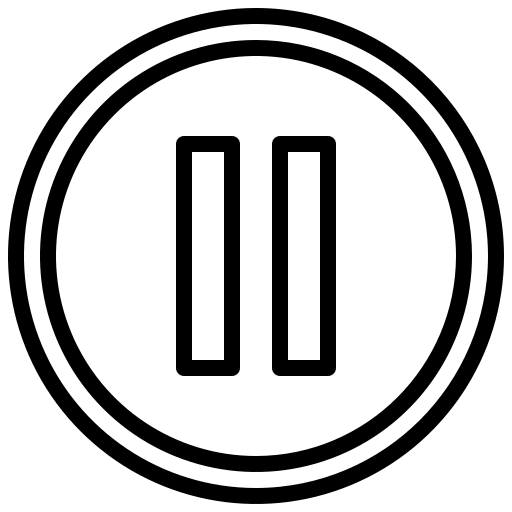
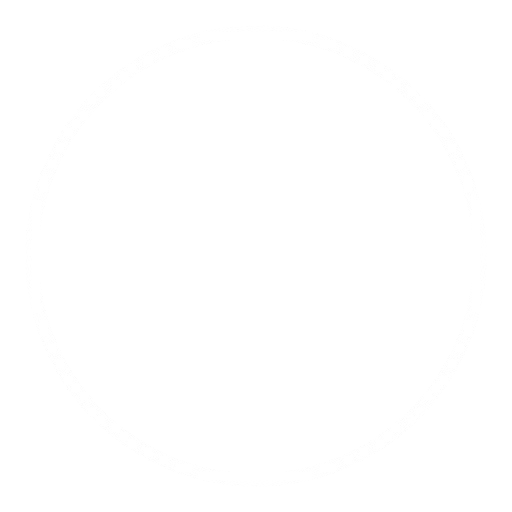
Made UI changes (added images instead of buttons)

Changed region(s): [[0.0, 0.0, 1.0, 1.0], [0.5312, 0.25, 0.6562, 0.75], [0.3438, 0.25, 0.4688, 0.75]]

diff --git a/ChillMusicUWP/MVVM/View/SongPage.xaml b/ChillMusicUWP/MVVM/View/SongPage.xaml
@@ -12,16 +12,16 @@
             <ImageBrush Stretch="Fill" ImageSource="{x:Bind ViewModel.CurrentSong.Image}"/>
         </Grid.Background>
 
-        <Button Content="🠔" HorizontalAlignment="Left" VerticalAlignment="Top" 
-                Margin="30" Background="White" Command="{Binding NavigateToMainCommand}"/>
+        <Image x:Name="BackButton" Source="/Assets/ArrowBack.png" Tapped="BackButton_Tapped" 
+               HorizontalAlignment="Left" VerticalAlignment="Top" Margin="10,10,0,0" Height="66" Width="64"/>
 
         <StackPanel HorizontalAlignment="Center" VerticalAlignment="Top" Margin="0,50,0,0">
             <TextBlock Text="{x:Bind ViewModel.CurrentSong.Name}" TextAlignment="Center" IsColorFontEnabled="True"/>
 
             <Button Content="Добавить" HorizontalAlignment="Center" 
-        Background="White" Command="{Binding OpenPopupCommand}"/>
-            
-            <Popup x:Name="SoundsPopup" IsOpen="{Binding IsPopupOpen, Mode=TwoWay}" Width="400" Height="300">
+                    Background="White" Command="{Binding OpenPopupCommand}"/>
+
+            <Popup x:Name="SoundsPopup" IsOpen="{Binding IsPopupOpen, Mode=TwoWay}" Width="1022" Height="805">
                 <StackPanel Background="White">
                     <TextBlock>This is popup text</TextBlock>
                     <Button Content="Button in popup" Command="{Binding TestCommand}"/>
@@ -30,15 +30,16 @@
         </StackPanel>
 
         <Image x:Name="PlayPauseButton" Source="{Binding IsPlaying, Converter={StaticResource BoolToImageConverter}}" 
-               HorizontalAlignment="Left" VerticalAlignment="Bottom" Margin="128,0,0,98" 
-               Width="164" Height="164" Tapped="PlayPauseButton_Tapped"/>
-        <Button Name="TimerButton" Content="{Binding ButtonContent}" HorizontalAlignment="Right"
-                VerticalAlignment="Bottom" Margin="50" Background="White" AllowFocusWhenDisabled="True"
-                Command="{Binding OpenTimerPopupCommand}" CommandParameter="1" IsEnabled="{Binding CanClickTimerButton}"/>
+               HorizontalAlignment="Left" VerticalAlignment="Bottom" Margin="438,0,0,106" 
+               Width="148" Height="147" Tapped="PlayPauseButton_Tapped"/>
+
+        <Image x:Name="TimerButton" Source="/Assets/TimerIcon.png" Tapped="TimerButton_Tapped"
+               HorizontalAlignment="Right" VerticalAlignment="Bottom" 
+               Margin="0,0,310,115" Height="130" Width="129"/>
 
         <TextBlock Name="TimerText" Visibility="Collapsed" Text="{Binding ButtonContent}" />
-        <Popup x:Name="TimerPopup" IsOpen="{Binding IsPopupTimerOpen, Mode=TwoWay}" Width="400" Height="300">
-            <StackPanel Background="White">
+        <Popup x:Name="TimerPopup" IsOpen="{Binding IsPopupTimerOpen, Mode=TwoWay}" Width="700" Height="900">
+            <Grid Background="LightGray">
                 <TextBlock>This is popup text</TextBlock>
                 <Button Content="1 секунда" Command="{Binding SetTimerCommand}" CommandParameter="1"/>
                 <Button Content="5 секунд" Command="{Binding SetTimerCommand}" CommandParameter="5"/>
@@ -49,7 +50,7 @@
                 <Button Content="5 минут" Command="{Binding SetTimerCommand}" CommandParameter="300"/>
                 <Button Content="10 минут" Command="{Binding SetTimerCommand}" CommandParameter="600"/>
                 <Button Content="Закрыть" Command="{Binding CloseTimerPopupCommand}"/>
-            </StackPanel>
+            </Grid>
         </Popup>
     </Grid>
 </Page>

diff --git a/ChillMusicUWP/MVVM/ViewModel/SongPageViewModel.cs b/ChillMusicUWP/MVVM/ViewModel/SongPageViewModel.cs
@@ -42,8 +42,7 @@ namespace ChillMusicUWP.MVVM.ViewModel
             Sounds = new ObservableCollection<Sound>(_soundRepository.GetAllAsync().GetAwaiter().GetResult());
         }
 
-        [RelayCommand]
-        void NavigateToMain()
+        public void NavigateToMain()
         {
             IsPopupOpen = false;
             _playbackService.StopPlayer();
@@ -64,12 +63,11 @@ namespace ChillMusicUWP.MVVM.ViewModel
             IsPlaying = !IsPlaying;
         }
 
-        #region Таймер
-        [RelayCommand]
-        void OpenTimerPopup()
+        public void OpenTimerPopup()
         {
             IsPopupTimerOpen = true;
         }
+        #region Таймер
         [RelayCommand]
         void CloseTimerPopup()
         {

diff --git a/ChillMusicUWP/MVVM/View/SongPage.xaml.cs b/ChillMusicUWP/MVVM/View/SongPage.xaml.cs
@@ -49,5 +49,14 @@ namespace ChillMusicUWP.MVVM.View
             ViewModel.PauseAudio();
         }
 
+        private void BackButton_Tapped(object sender, TappedRoutedEventArgs e)
+        {
+            ViewModel.NavigateToMain();
+        }
+
+        private void TimerButton_Tapped(object sender, TappedRoutedEventArgs e)
+        {
+            ViewModel.OpenTimerPopup();
+        }
     }
 }
